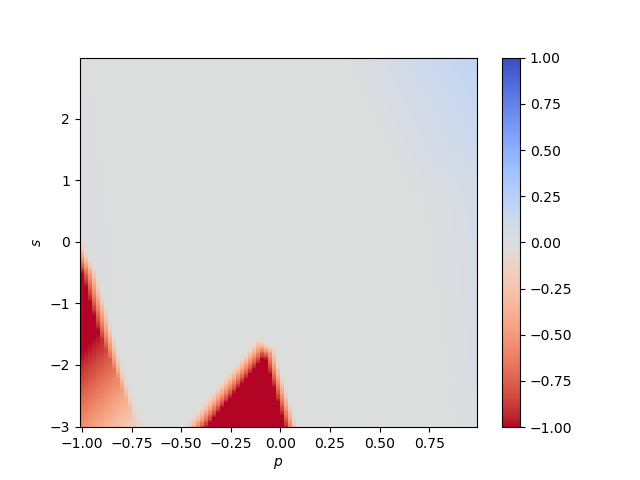
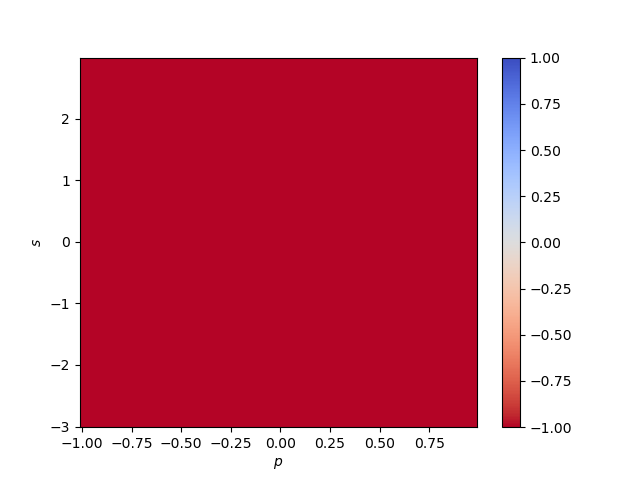
Fix

diff --git a/2/python/fitted_Q.py b/2/python/fitted_Q.py
@@ -2,6 +2,26 @@ from sklearn.base import RegressorMixin
 from python.domain import ACTIONS
 import numpy as np
 
+def correct_domain(y):
+    if y is float:
+        if y < -1:
+            return -1
+
+        if y > 1:
+            return 1
+
+        return y
+
+    to_low = y > -1
+    to_high = y > 1
+
+
+    y[to_low] = -1
+    y[to_high] = 1
+
+    return y
+
+
 class Fitted_Q():
     def __init__(self, get_model, stop, discount_factor:float) -> None:
         self.model = None
@@ -38,7 +58,7 @@ class Fitted_Q():
             model = self.get_model()
             model.fit(X, y)
 
-            Q_hat = model.predict(X_1).reshape(-1, 2)
+            Q_hat = correct_domain(model.predict(X_1)).reshape(-1, 2)
 
             max_u = Q_hat.max(axis=1) # extract the  values doing the best actions
 
@@ -56,13 +76,13 @@ class Fitted_Q():
 
     def predict(self, X):
         """ predict given state action pairs """
-        return self.model.predict(X)
+        return correct_domain(self.model.predict(X))
 
     def compute_optimal_actions(self, states):
         """ Return the optimal action to perform in a given state """
         X = np.c_[np.repeat(states, len(ACTIONS), axis=0), np.tile(np.array(ACTIONS), len(states))]
 
-        y_pred = self.predict(X)
+        y_pred = correct_domain(self.predict(X))
         y_pred = y_pred.reshape(-1, 2)
         y_pred = np.argmax(y_pred, axis=1)
 

diff --git a/2/section4.py b/2/section4.py
@@ -33,18 +33,20 @@ def distance_stop(current_n, prev_Q_hat, current_Q_hat):
     if prev_Q_hat is None or current_Q_hat is None:
         return False
 
+    print( infinity_norm(prev_Q_hat, current_Q_hat))
+
     return infinity_norm(prev_Q_hat, current_Q_hat) <= epsilon
 
 
 def get_stopping_rules():
-    return (bound_stop, "bound"), (distance_stop, "distance")
+    return (distance_stop, "distance"), (bound_stop, "bound")
 
 def get_models():
     LR =  lambda : LinearRegression(n_jobs=-1)
     ETR = lambda : ExtraTreesRegressor(n_estimators=30, random_state=42)
     NEURAL_NET = lambda : NN(layers=3, neurons=8, output=1, epochs=10, batch_size=32, activation="relu")
 
-    return NEURAL_NET, ETR, LR
+    return [NEURAL_NET]#, ETR, LR
 
 def get_trajectories(nb_p, nb_s):
     # Random
@@ -143,7 +145,7 @@ if __name__ == "__main__":
     epsilon = 1e-3
     N = math.ceil(math.log((epsilon / (2 * B_r)) * (1. - DISCOUNT_FACTOR), DISCOUNT_FACTOR))
 
-    for trajectories in get_trajectories(115, 345):
+    for trajectories in get_trajectories(2, 6):#(115, 345):
         for stopping_rule in get_stopping_rules():
             for get_model in get_models():
                 trajectory, trajectory_label = trajectories
